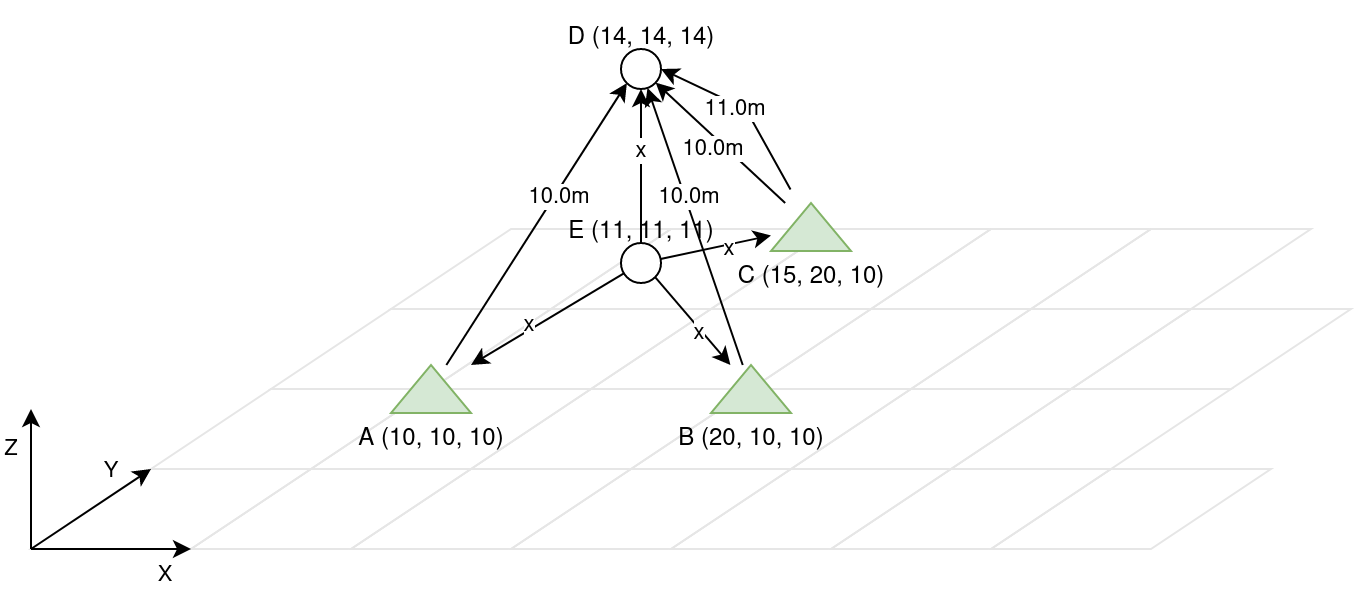
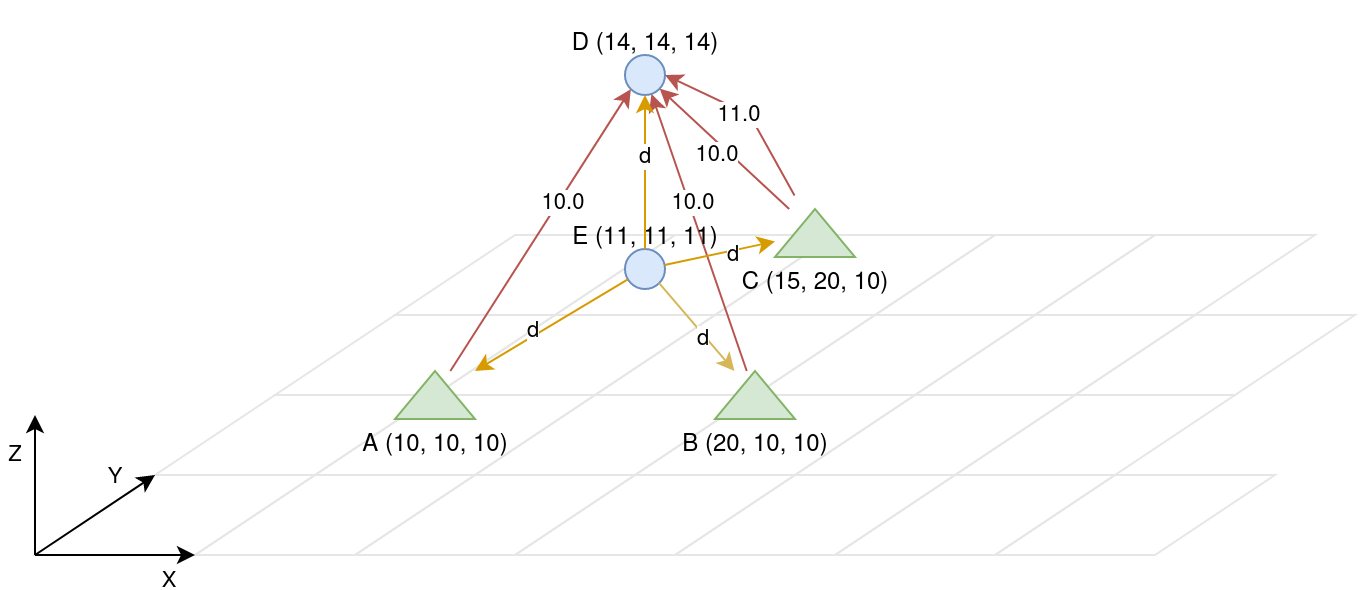
doc TopoComp

diff --git a/Doc/Programmer/NonLinearOptim.tex b/Doc/Programmer/NonLinearOptim.tex
@@ -1188,13 +1188,13 @@ then contact MPD.
 %---------------------------------------------
 %---------------------------------------------
 
-\section{Topometric compensation example}
+\section{Topometric compensation (WIP)}
 
 \subsection{Global presentation}
 
-The beginning of a topometric compensation system can be found in \texttt{MMVII/src/Topo/}.
+The premises of a topometric compensation system can be found in \texttt{MMVII/src/Topo/}.
 
-All computation happens in a 3D cartesian frame. For now, there is no georeferencing
+Computation takes place in a 3D cartesian frame. For now, there is no georeferencing
 and no Earth model.
 
 All points must be given approximative coordinates as there is no automatic initialization.
@@ -1203,13 +1203,14 @@ For now it is only used in the Bench \texttt{TopoComp}.
 This Bench will be used to illustrate the topometric classes and their usage.
 
 
-\subsection{\texttt{TopoComp} example}
+\subsection{\texttt{TopoComp} Bench example}
+\label{subsec:topoBench}
 
 The example is created by the method \texttt{cTopoComp::createEx1()}.
 
 \subsubsection{Step 1}
 
-It starts with 3 fixed points ($A$, $B$, $C$), forming an isosceles triangle
+At first, there are 3 fixed points ($A$, $B$, $C$), forming an isosceles triangle
 on an horizontal plane (Fig. \ref{fig:topoEx1}).
 
 \begin{figure}[!h]
@@ -1219,8 +1220,9 @@ on an horizontal plane (Fig. \ref{fig:topoEx1}).
 \label{fig:topoEx1}
 \end{figure}
 
-The points have to be added as pointers to \texttt{cTopoComp::allPts()} since there
-is no copy constructor for classes that derive from \texttt{cObjWithUnkowns}.
+The points are instances of the \texttt{cTopoPoint} class that
+derives from \texttt{cObjWithUnkowns}, hence it has no copy constructor and
+the points have to be added as pointers to \texttt{cTopoComp::allPts()}.
 
 \begin{lstlisting}
   //create fixed points
@@ -1237,24 +1239,26 @@ At this point, there are no unknowns and no observations.
 
 \subsubsection{Step 2}
 
-The point $D$ is initialized above the triangle, and distances from $A$, $B$ and $C$ to $D$
+A fourth point ($D$), this time not fixed, is initialized above the $ABC$ triangle.
+Distances from $A$, $B$ and $C$ to $D$
 are measured. For redondancy and error evaluation, the distance from $C$ to $D$ is measured twice
 with different values (Fig. \ref{fig:topoEx2}).
 
 \begin{figure}[!h]
 \centering
 \includegraphics[width=12cm]{Programmer/benchtopo2.png}
-\caption{Point determined by measured distances}
+\caption{Point $D$ is determined by measured distances}
 \label{fig:topoEx2}
 \end{figure}
 
-Observations must refer to an object from a class derived from \texttt{cTopoObsSet},
-used to attach parameters to observations.
-In the case of measured distances there is no parameter, therefore, the \texttt{cTopoObsSetSimple}
-class is used. These object must be created with \texttt{make\_TopoObsSet} method template.
+Observations must refer to an observation set (deriving from class \texttt{cTopoObsSet})
+that is used to share parameters between observations.
 
-The observations are all from the class \texttt{cTopoObs}, the observation type is given
-to the constructor via an \texttt{TopoObsType}.
+In the case of measured distances there is no parameter, therefore the observation set will be 
+a \texttt{cTopoObsSetSimple}. Observations sets must be created with \texttt{make\_TopoObsSet} template function.
+
+All topometric observations are instances of \texttt{cTopoObs} class.
+For distances observations, \texttt{TopoObsType::dist} is given to the constructor.
 
 \begin{lstlisting}
   //add measured dist to point D
@@ -1268,22 +1272,26 @@ to the constructor via an \texttt{TopoObsType}.
   cTopoObs(obsSet1, TopoObsType::dist, std::vector{ptC, ptD}, {11.0});
 \end{lstlisting}
 
-There are now 3 unknonws ($D$ coordinates) and 4 observations.
+The system now contains 3 unknowns ($D$ coordinates) and 4 observations
+(measured distances $AD$, $BD$ and $CD$ two times).
 
 \subsubsection{Step 3}
 
-The point $E$ is initialized inside the tetrahedron, and we add observations saying that
-the distances from $E$ to $A$, $B$, $C$ and $D$ are equal but unkonwn (Fig. \ref{fig:topoEx3}).
+A second non-fixed point, $E$, is initialized inside the $ABCD$ tetrahedron,
+and observations expressing that
+the distances from $E$ to $A$, $B$, $C$ and $D$ are equal and unknown ($d$ in Fig. \ref{fig:topoEx3})
+are added.
 
 \begin{figure}[!h]
 \centering
 \includegraphics[width=12cm]{Programmer/benchtopo3.png}
-\caption{Point determined by common distance}
+\caption{Point $E$ determined by equal distance $d$}
 \label{fig:topoEx3}
 \end{figure}
 
-A new \texttt{cTopoObsSet} must be created. The derived \texttt{cTopoObsSetDistParam} type
-has a parameter that will be shared between all the observations that belongs to it
+A new \texttt{cTopoObsSet} must be created. The \texttt{cTopoObsSetDistParam} class
+is used to create the parameter corresponding to the unknown $d$.
+
 
 \begin{lstlisting}
   //add point E to an unknown common dist
@@ -1297,16 +1305,17 @@ has a parameter that will be shared between all the observations that belongs to
   cTopoObs(obsSet2, TopoObsType::distParam, std::vector{ptE, ptD}, {});
 \end{lstlisting}
 
-This added 4 unknonws ($E$ coordinates and the common distance) and 4 observations.
+This adds 4 unknowns ($E$ coordinates and the unknown distance $d$) and 4 observations
+($EA = EB = EC = ED = d$).
 
 
 \subsection{Topometric computation}
 
 Topometric computation system is managed by the \texttt{cTopoComp} class.
-This handles the list of points and observation sets, the non linear system
+This handles the list of points and observation sets, the non-linear system
 (\texttt{cResolSysNonLinear}), and a mechanism to link the observations to
 the automatic derivation system.
 
-After \texttt{cTopoComp} object creation and filling (see Bench example),
+After \texttt{cTopoComp} object creation and filling (see \ref{subsec:topoBench}),
 the method \texttt{OneIteration()} is called to improve parameters estimation.
 
